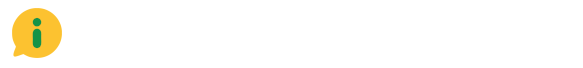
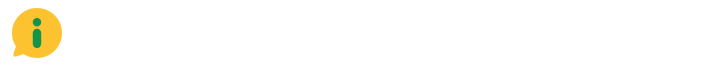
[JT Theme] leiaute para região acessibilidade e região header

Changed region(s): [[0.0, 0.1176, 0.1235, 0.8529]]

diff --git a/themes/jt_theme/css/region_accessibility.css b/themes/jt_theme/css/region_accessibility.css
@@ -60,25 +60,25 @@
 
 .icon-info a::before {
   background-position: 0px -1px;
-  background-size: 160px;
+  background-size: 200px;
 }
 
 .icon-zoom-more a::before {
   background-position: -22px -1px;
-  background-size: 160px;
+  background-size: 200px;
 }
 
 .icon-zoom-less a::before {
   background-position: -44px 0px;
-  background-size: 160px;
+  background-size: 200px;
 }
 
 .icon-libras a::before {
   background-position: -65px -1px;
-  background-size: 160px;
+  background-size: 200px;
 }
 
 .icon-contrast a::before {
   background-position: -86px -1px;
-  background-size: 160px;
+  background-size: 200px;
 }

diff --git a/themes/jt_theme/css/region_site_header.css b/themes/jt_theme/css/region_site_header.css
@@ -90,7 +90,7 @@ input.form-search {
 
 input#edit-submit {
   background: #01426a url(/themes/jt_theme/images/icons_site.png) repeat scroll -117px 1px;
-  background-size: 182px;
+  background-size: 222px;
   color: transparent;
   height: 26px;
   width: 28px;
